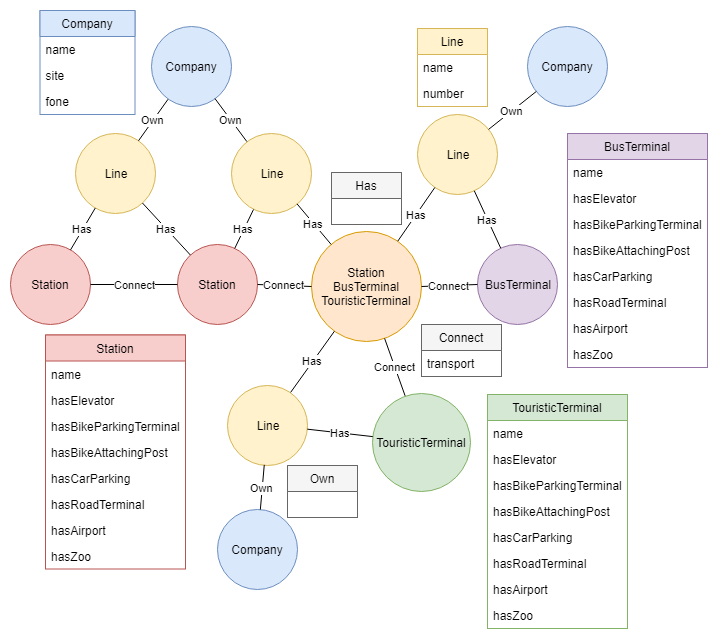
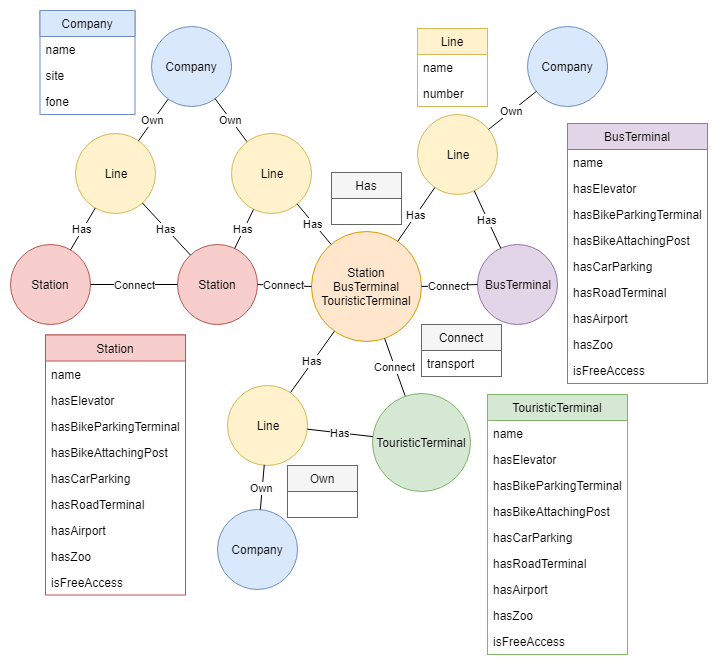
Add free access station

diff --git a/README.md b/README.md
@@ -26,7 +26,7 @@ Para rodar o projeto, é necessário instalar o Neo4j, você pode baixar [clican
 - [x] Empresas
 - [x] Ponte ORCA
 - [ ] Integrações tarifadas
-- [ ] Estações de acesso livre
+- [x] Estações de acesso livre (grátis)
 
 ## Estrutura do banco
 
